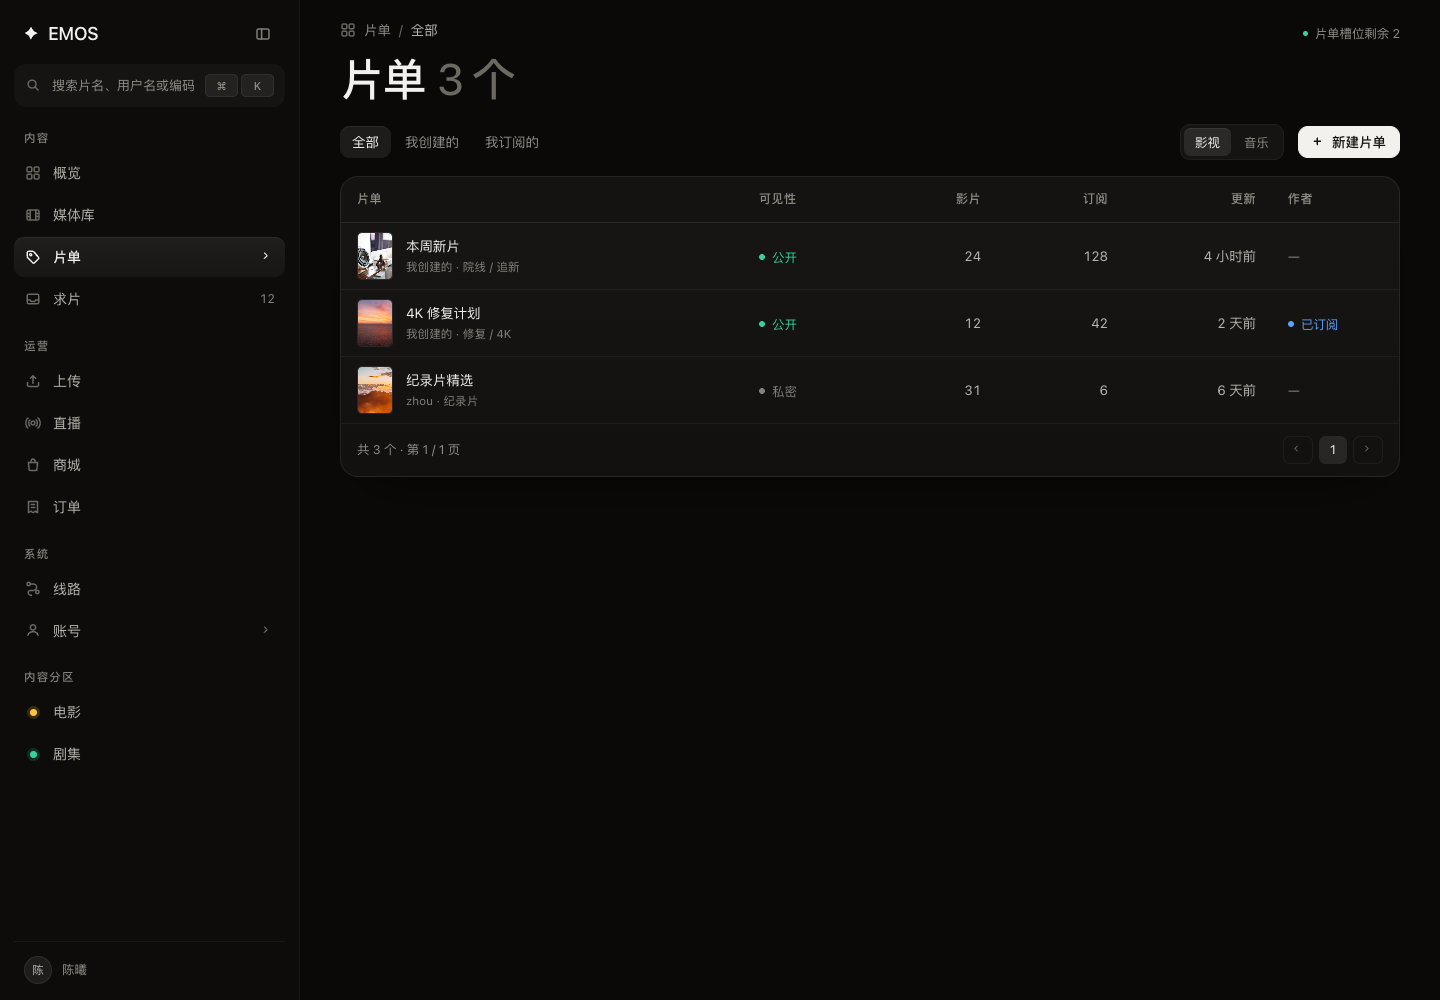
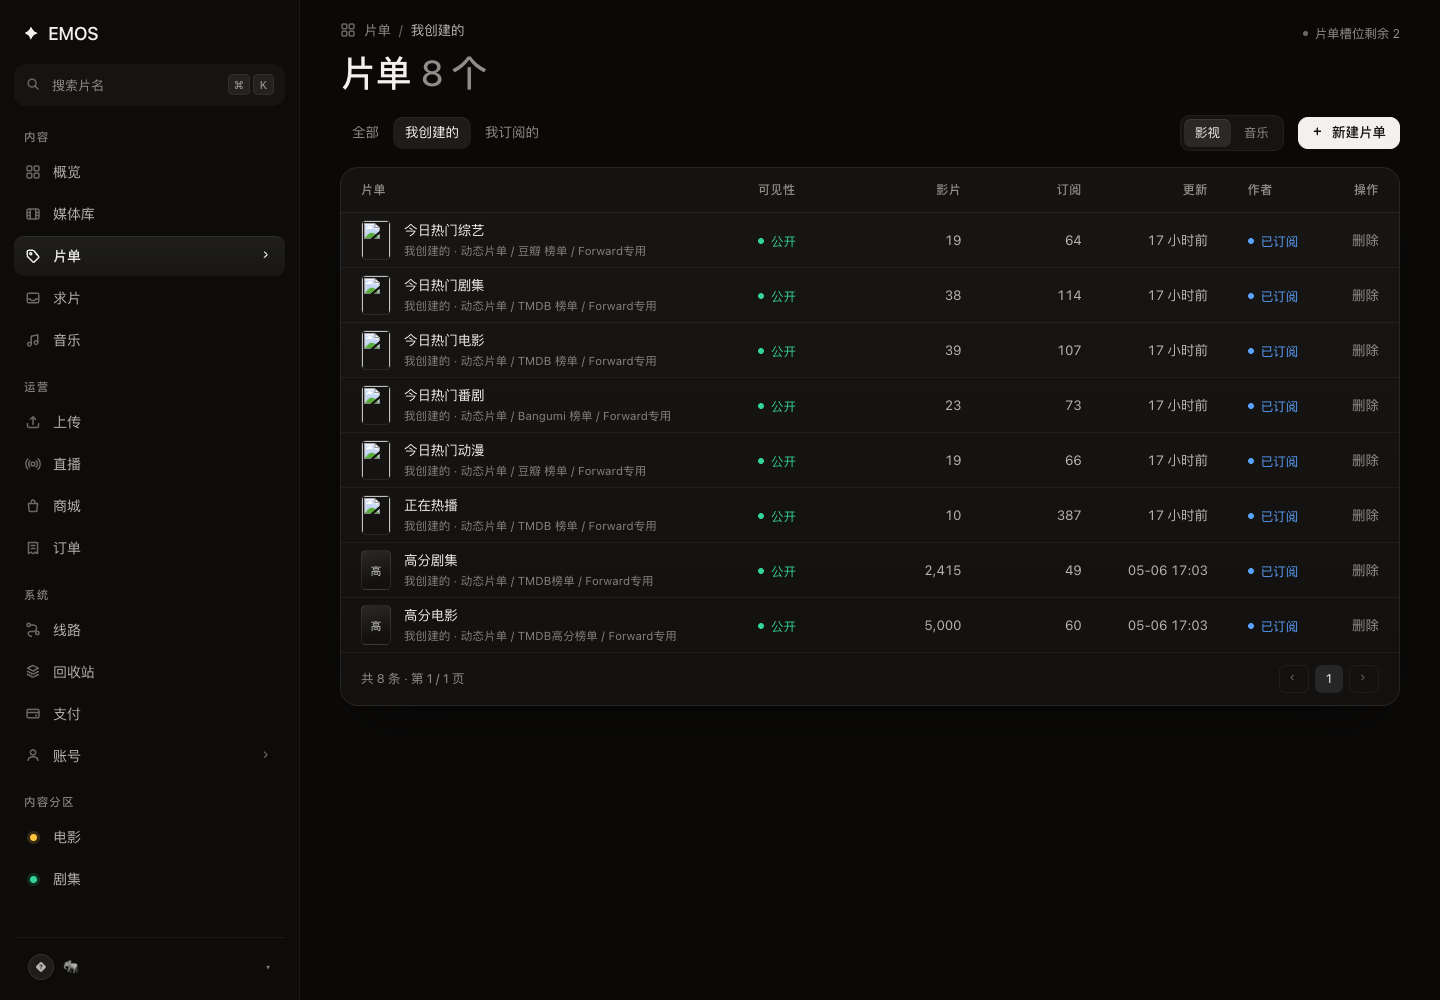
feat: 补齐三处高频缺口
- 片单删除：我创建的片单行内可删，确认后释放槽位（260 个片单此前完全删不掉）
- 商品删除：商城商品行内可删，提示已产生订单不受影响
- 资源移动：详情页资源弹窗新增「移到其他集」，可按季选集重新挂载
  （此前传错集只能删了重传，会再扣一次胡萝卜）
- 窄屏：卡片内表格改为在卡片内横向滚动，不再被 .page 的 overflow 裁掉

diff --git a/src/views/VideoDetailView.tsx b/src/views/VideoDetailView.tsx
@@ -4,6 +4,7 @@ import { PageHeader } from '@/components/PageHeader'
 import { EmptyBlock, ErrorBlock, LoadingBlock } from '@/components/StateBlock'
 import { Modal } from '@/components/Modal'
 import { IconDots, IconLeft } from '@/components/icons'
+import { mediaApi } from '@/api/endpoints'
 import { useEpisodes, useMediaList, usePersons, useSeasons, useSubtitles, useVideoDetail, useVideoMutations } from '@/api/queries'
 import { toast } from '@/ui/toast'
 import { confirmDialog } from '@/ui/confirm'
@@ -56,6 +57,9 @@ export function VideoDetailView({
 
   const [renaming, setRenaming] = useState<{ mediaId: string; name: string } | null>(null)
   const [renamingSub, setRenamingSub] = useState<{ id: string; title: string } | null>(null)
+  const [moving, setMoving] = useState<{ mediaId: string; name: string } | null>(null)
+  const [moveSeason, setMoveSeason] = useState<number>(season)
+  const moveEpisodes = useEpisodes(videoId, moveSeason)
 
   const video = detail.data
 
@@ -384,6 +388,16 @@ export function VideoDetailView({
               同步元数据
             </button>
             <button
+              className="btn btn--ghost"
+              onClick={() => {
+                setMoveSeason(season)
+                setMoving({ mediaId: renaming.mediaId, name: renaming.name })
+                setRenaming(null)
+              }}
+            >
+              移到其他集
+            </button>
+            <button
               className="btn btn--danger"
               style={{ marginLeft: 'auto' }}
               onClick={async () => {
@@ -406,6 +420,57 @@ export function VideoDetailView({
             >
               删除
             </button>
+          </div>
+        </Modal>
+      ) : null}
+
+      {moving ? (
+        <Modal
+          title={`移动资源 · ${moving.name}`}
+          hint="传错集会扣两次胡萝卜，用这个把它挪到正确的位置。"
+          width={520}
+          onClose={() => setMoving(null)}
+        >
+          <div className="tabs" style={{ overflowX: 'auto', flexWrap: 'nowrap' }}>
+            {(seasons.data ?? []).map((s) => (
+              <button
+                key={s.season_id}
+                className="tab"
+                role="tab"
+                aria-selected={s.season_number === moveSeason}
+                style={{ flex: 'none' }}
+                onClick={() => setMoveSeason(s.season_number)}
+              >
+                {s.season_title || `第 ${s.season_number} 季`}
+              </button>
+            ))}
+          </div>
+
+          <div style={{ display: 'grid', gap: 4, maxHeight: 320, overflowY: 'auto' }}>
+            {(moveEpisodes.data ?? []).map((ep) => (
+              <div key={ep.episode_id} style={{ display: 'flex', alignItems: 'center', gap: 10, padding: '6px 2px' }}>
+                <span className="tnum muted" style={{ width: 26 }}>{String(ep.episode_number).padStart(2, '0')}</span>
+                <span style={{ flex: 1, minWidth: 0, overflow: 'hidden', textOverflow: 'ellipsis', whiteSpace: 'nowrap' }}>
+                  {ep.episode_title}
+                </span>
+                <button
+                  className="btn btn--quiet"
+                  disabled={ep.episode_id === currentEpisode?.episode_id}
+                  onClick={() =>
+                    mediaApi
+                      .move(moving.mediaId, 've', ep.episode_id)
+                      .then(() => {
+                        toast('已移动', 'success')
+                        setMoving(null)
+                        void media.refetch()
+                      })
+                      .catch(() => toast('移动失败', 'error'))
+                  }
+                >
+                  {ep.episode_id === currentEpisode?.episode_id ? '当前位置' : '移到这里'}
+                </button>
+              </div>
+            ))}
           </div>
         </Modal>
       ) : null}

diff --git a/src/views/WatchlistsView.tsx b/src/views/WatchlistsView.tsx
@@ -8,6 +8,7 @@ import { IconPlus } from '@/components/icons'
 import { watchApi } from '@/api/endpoints'
 import { useSession, useWatchPage } from '@/api/queries'
 import { toast } from '@/ui/toast'
+import { confirmDialog } from '@/ui/confirm'
 import { formatRelative, formatThousand } from '@/lib/format'
 import { Pager } from '@/components/Pager'
 
@@ -116,8 +117,9 @@ export function WatchlistsView({ search, onSearch }: { search: WatchSearch; onSe
                 <th style={{ width: '12%' }}>可见性</th>
                 <th className="num" style={{ width: '12%' }}>影片</th>
                 <th className="num" style={{ width: '12%' }}>订阅</th>
-                <th className="num" style={{ width: '14%' }}>更新</th>
-                <th style={{ width: '12%' }}>作者</th>
+                <th className="num" style={{ width: '12%' }}>更新</th>
+                <th style={{ width: '10%' }}>作者</th>
+                <th style={{ width: '88px', textAlign: 'right' }}>操作</th>
               </tr>
             </thead>
             <tbody>
@@ -158,6 +160,34 @@ export function WatchlistsView({ search, onSearch }: { search: WatchSearch; onSe
                         <i />
                         已订阅
                       </span>
+                    ) : (
+                      <span className="muted">—</span>
+                    )}
+                  </td>
+                  <td style={{ textAlign: 'right' }} onClick={(e) => e.stopPropagation()}>
+                    {watch.is_self ? (
+                      <button
+                        className="btn btn--quiet"
+                        onClick={async () => {
+                          const ok = await confirmDialog({
+                            title: `删除片单「${watch.name}」？`,
+                            message: `${watch.video_count} 部影片会一起从片单移除，影片本身不受影响。`,
+                            hint: '片单删除后无法恢复，槽位会释放。',
+                            confirmText: '删除',
+                            danger: true,
+                          })
+                          if (!ok) return
+                          try {
+                            await watchApi.remove(watch.id)
+                            toast('片单已删除', 'success')
+                            void refetch()
+                          } catch {
+                            toast('删除失败', 'error')
+                          }
+                        }}
+                      >
+                        删除
+                      </button>
                     ) : (
                       <span className="muted">—</span>
                     )}

diff --git a/src/views/ShopView.tsx b/src/views/ShopView.tsx
@@ -159,6 +159,24 @@ export function ShopView({ tab, onTab }: { tab: Tab; onTab: (tab: Tab) => void }
                             <button className="btn btn--quiet" onClick={() => setEditing(product)}>
                               编辑
                             </button>
+                            <button
+                              className="btn btn--quiet"
+                              onClick={async () => {
+                                const ok = await confirmDialog({
+                                  title: `删除商品「${product.name}」？`,
+                                  message: '商品会从商城下架并删除，已产生的订单不受影响。',
+                                  hint: '删除后无法恢复。',
+                                  confirmText: '删除',
+                                  danger: true,
+                                })
+                                if (!ok) return
+                                actions.removeProduct.mutate(product.product_id, {
+                                  onSuccess: () => toast('商品已删除', 'success'),
+                                })
+                              }}
+                            >
+                              删除
+                            </button>
                           </span>
                         ) : (
                           <span className="muted">—</span>

diff --git a/src/styles/components.css b/src/styles/components.css
@@ -1158,7 +1158,8 @@ th.num .th-sort { flex-direction: row-reverse; }
 .card-head .btn:disabled,
 .card--stat .stat__label .btn:disabled { color: var(--fg-5); cursor: default; }
 
-.card-body { margin-top: var(--stack); }
+.card-body { margin-top: var(--stack); min-width: 0; overflow-x: auto; }
+.card table { min-width: 420px; }
 
 .card-note {
   margin: 0;
